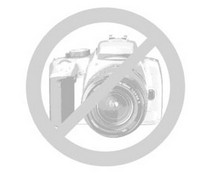
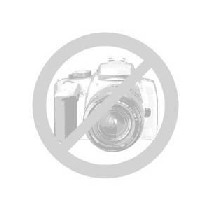
NUR-31 кроп изображений...

diff --git a/src/Nurix/CatalogBundle/Resources/public/css/catalog.css b/src/Nurix/CatalogBundle/Resources/public/css/catalog.css
@@ -81,5 +81,5 @@
 .product_img {
     display: inline-block;
     width: 210px;
-    height: 174px
+    height: 210px
 }
